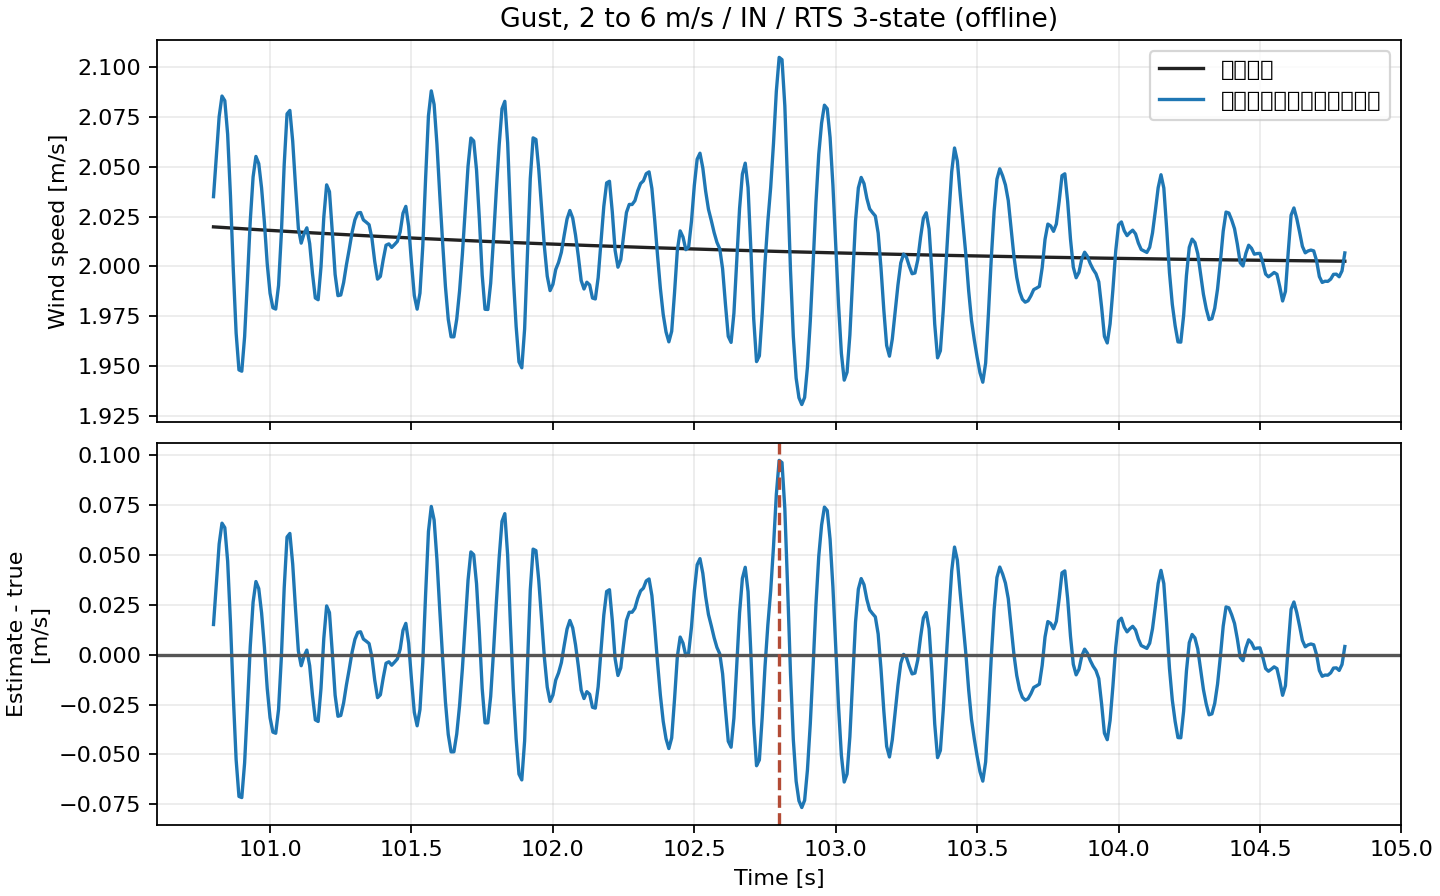
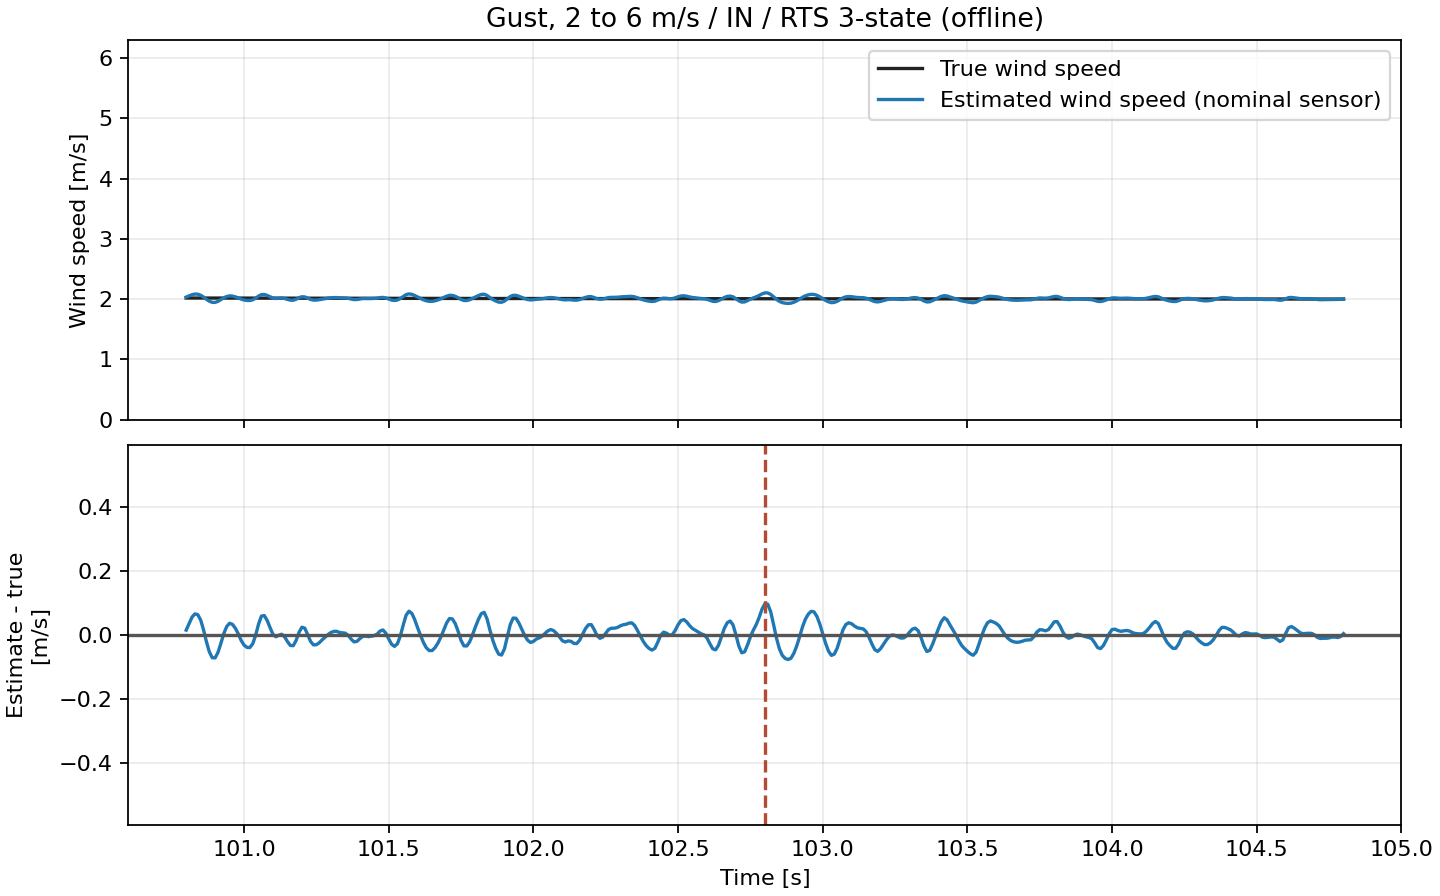
Fix OW-05 comparison plot scales and labels

diff --git a/06_Analysis/simulation/src/run_ow05_sensor_nonideality.py b/06_Analysis/simulation/src/run_ow05_sensor_nonideality.py
@@ -73,11 +73,21 @@ def run():
     write_csv(OUT/'ow05_metrics.csv',rows); write_csv(OUT/'ow05_tuning_scan.csv',tuning_rows)
     # Plot sensor-impact comparison for both valid wind models, zoom around global max error for each.
     figs=[]
+    # Give ESO and RTS identical wind and error scales for each case and axis.
+    # Each method is centered on its own peak-error time, so shared limits are
+    # needed to make visual comparisons fair.
+    shared_limits={}
+    for cname in dict.fromkeys(key[0] for key in wave):
+      for axis in cfg['axis_names']:
+        pair=[wave[(cname,axis,m)] for m in ('ESO 3状態','RTS 3状態（オフライン）')]
+        speed_max=max(float(np.nanmax(np.abs(item[0]['v']))) for item in pair)
+        error_max=max(float(np.nanmax(np.abs(item[1][item[0]['mask']]-item[0]['v'][item[0]['mask']]))) for item in pair)
+        shared_limits[(cname,axis)]=(max(0.0,speed_max*1.05),max(0.05,error_max*1.10))
     for (cname,axis,method),(p,e,r) in wave.items():
       err=e-p['v']; ids=np.flatnonzero(p['mask']&np.isfinite(err)); i=int(ids[np.argmax(np.abs(err[ids]))]); center=p['t'][i]; view=(p['t']>=center-2)&(p['t']<=center+2)
       fig,(a,b)=plt.subplots(2,1,figsize=(9,5.6),sharex=True,layout='constrained')
-      a.plot(p['t'][view],p['v'][view],label='真値風速',color='#222'); a.plot(p['t'][view],e[view],label='推定風速（公称センサー）'); a.set_ylabel('Wind speed [m/s]'); a.set_title(f"{'Independent Kaimal, mean 2 m/s' if 'Kaimal' in cname else 'Gust, 2 to 6 m/s'} / {axis} / {'RTS 3-state (offline)' if method.startswith('RTS') else 'ESO 3-state'}"); a.legend(); a.grid(alpha=.25)
-      b.plot(p['t'][view],err[view]); b.axhline(0,color='#555'); b.axvline(center,color='#b34b35',ls='--'); b.set_xlabel('Time [s]'); b.set_ylabel('Estimate - true\n[m/s]'); b.grid(alpha=.25)
+      a.plot(p['t'][view],p['v'][view],label='True wind speed',color='#222'); a.plot(p['t'][view],e[view],label='Estimated wind speed (nominal sensor)'); a.set_ylabel('Wind speed [m/s]'); a.set_ylim(0,shared_limits[(cname,axis)][0]); a.set_title(f"{'Independent Kaimal, mean 2 m/s' if 'Kaimal' in cname else 'Gust, 2 to 6 m/s'} / {axis} / {'RTS 3-state (offline)' if method.startswith('RTS') else 'ESO 3-state'}"); a.legend(); a.grid(alpha=.25)
+      b.plot(p['t'][view],err[view]); b.axhline(0,color='#555'); b.axvline(center,color='#b34b35',ls='--'); b.set_xlabel('Time [s]'); b.set_ylabel('Estimate - true\n[m/s]'); b.set_ylim(-shared_limits[(cname,axis)][1],shared_limits[(cname,axis)][1]); b.grid(alpha=.25)
       name=f"ow05_{'kaimal' if 'Kaimal' in cname else 'gust'}_{axis}_{'rts' if method.startswith('RTS') else 'eso'}.png"; fig.savefig(OUT/name,dpi=160); plt.close(fig); figs.append(name)
     report=['# OW-05 センサー非理想性とオブザーバー選定','','## 目的・結論','',
       'OW-03で角度±60°内だった独立Kaimal乱流（平均2 m/s、TI 20%）と2→6 m/sガストを使い、採用BALLプラントにセンサーの量子化、ノイズ、遅延を含めて比較した。比較対象はオンラインの3状態ESOと未来データを使うオフライン3状態RTS。4状態ESOはOW-03で除外済みのため含めない。', '',
@@ -87,7 +97,7 @@ def run():
       vals={r['method']:r for r in rows if r['case']==cname and r['axis']==axis and r['sensor_case']=='nominal'}
       report.append(f"| {cname} | {axis} | {vals['ESO 3状態']['rmse_m_s']:.5f} m/s | {vals['RTS 3状態（オフライン）']['rmse_m_s']:.5f} m/s |")
     report += ['', '## センサー条件', '',f"角度サンプルは{rate:.0f} Hz、MT6701の14 bit（量子化幅{360/2**14:.8f}°）、白色ノイズσ={pars.white_noise_std_deg:.3f}°、有色ノイズσ={pars.coloured_noise_std_deg:.3f}°・時定数{pars.coloured_noise_time_constant_s:.3f} s、固定遅延{pars.fixed_delay_s*1000:.0f} msを公称条件とした。センサー段階評価に従った設定であり、量子化/サンプリング仕様以外のノイズと遅延は実測前の暫定仮定である。感度としてノイズσを2倍にした条件も計算した。", '',
-      '## 公称センサー条件の拡大時系列','', '各図は最大誤差時刻を中心に±2秒を表示する。上段は真値と推定風速、下段は誤差。', '']
+      '## 公称センサー条件の拡大時系列','', '各図は最大誤差時刻を中心に±2秒を表示する。上段は真値と推定風速、下段は誤差。同じ風条件・軸のESO図とRTS図では、上段と下段それぞれの縦軸範囲を共通にして比較できるようにした。描画環境に日本語フォントがないため、図中ラベルは英語表記とし、本文と図題は日本語で記載する。', '']
     for name in figs: report += [f'![OW-05 拡大時系列]({name})','']
     report += ['## 解釈と選定','', 'RTS 3状態はオフライン評価で未来サンプルを使用するため、RMSEが小さくてもオンライン実装候補とは分ける。オンライン用途はESO 3状態を候補とし、公称ノイズ条件に対する帯域選定を反映した値を使用する。RTSはログ解析や遅延許容用途の基準として残す。ノイズ2倍感度を含む全数値は `ow05_metrics.csv`、調整スキャンは `ow05_tuning_scan.csv` に保存した。', '', '## 再実行','', '```bash','python 06_Analysis/simulation/src/run_ow05_sensor_nonideality.py','```','']
     (OUT/'OW-05_REPORT.md').write_text('\n'.join(report),encoding='utf-8')

diff --git a/06_Analysis/simulation/results/observer_wind/ow05_sensor_nonideality/OW-05_REPORT.md b/06_Analysis/simulation/results/observer_wind/ow05_sensor_nonideality/OW-05_REPORT.md
@@ -19,7 +19,7 @@ OW-03で角度±60°内だった独立Kaimal乱流（平均2 m/s、TI 20%）と2
 
 ## 公称センサー条件の拡大時系列
 
-各図は最大誤差時刻を中心に±2秒を表示する。上段は真値と推定風速、下段は誤差。
+各図は最大誤差時刻を中心に±2秒を表示する。上段は真値と推定風速、下段は誤差。同じ風条件・軸のESO図とRTS図では、上段と下段それぞれの縦軸範囲を共通にして比較できるようにした。描画環境に日本語フォントがないため、豆腐表示を避けて図中ラベルを英語表記とし、本文と図題は日本語で記載する。
 
 ![OW-05 拡大時系列](ow05_kaimal_IN_eso.png)
 
@@ -39,7 +39,7 @@ OW-03で角度±60°内だった独立Kaimal乱流（平均2 m/s、TI 20%）と2
 
 ## 解釈と選定
 
-OW-04の係数不確かさと今回のセンサー非理想性を同時に与えた評価、および実測センサー値での再計算は今後の統合確認として残す。RTS 3状態はオフライン評価で未来サンプルを使用するため、RMSEが小さくてもオンライン実装候補とは分ける。オンライン用途はESO 3状態を候補とし、公称ノイズ条件に対する帯域選定を反映した値を使用する。RTSはログ解析や遅延許容用途の基準として残す。ノイズ2倍感度を含む全数値は `ow05_metrics.csv`、調整スキャンは `ow05_tuning_scan.csv` に保存した。
+RTS 3状態はオフライン評価で未来サンプルを使用するため、RMSEが小さくてもオンライン実装候補とは分ける。オンライン用途はESO 3状態を候補とし、公称ノイズ条件に対する帯域選定を反映した値を使用する。RTSはログ解析や遅延許容用途の基準として残す。ノイズ2倍感度を含む全数値は `ow05_metrics.csv`、調整スキャンは `ow05_tuning_scan.csv` に保存した。
 
 ## 再実行
 
